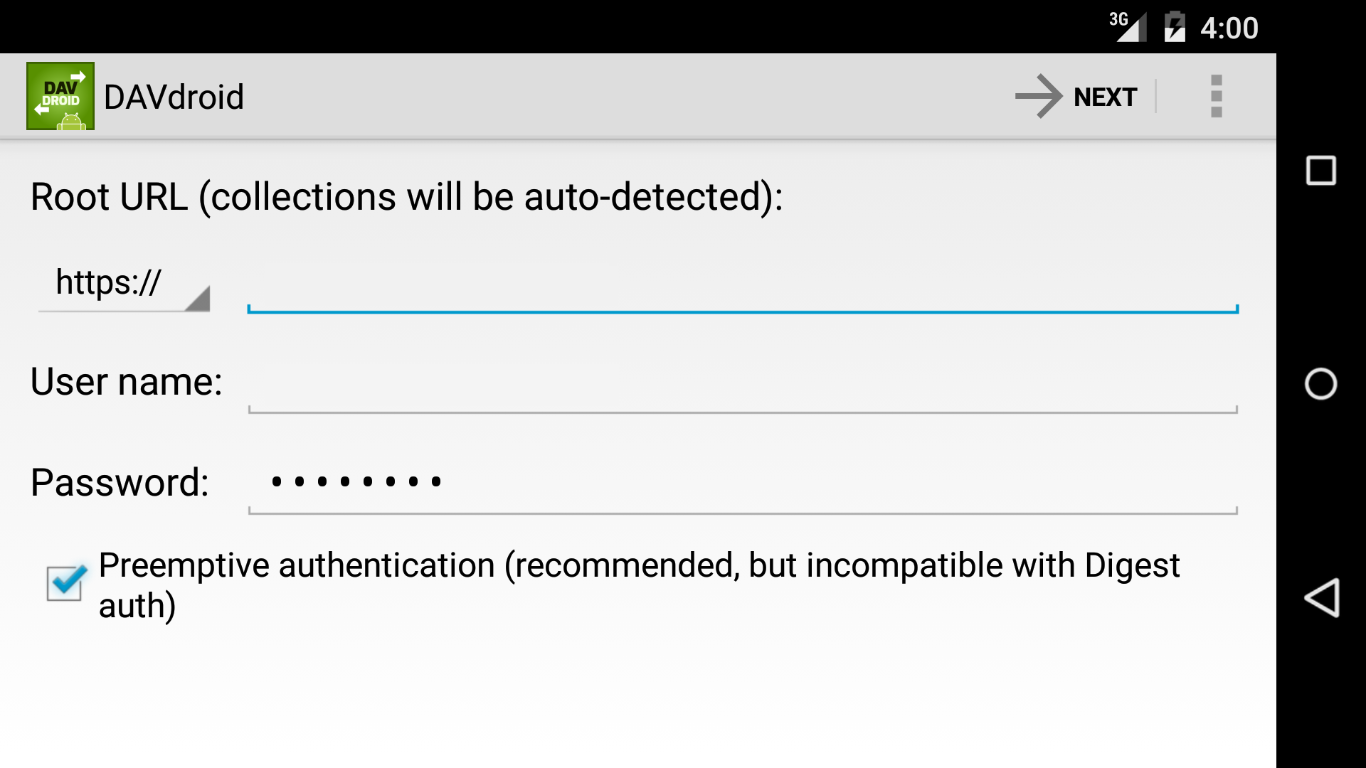
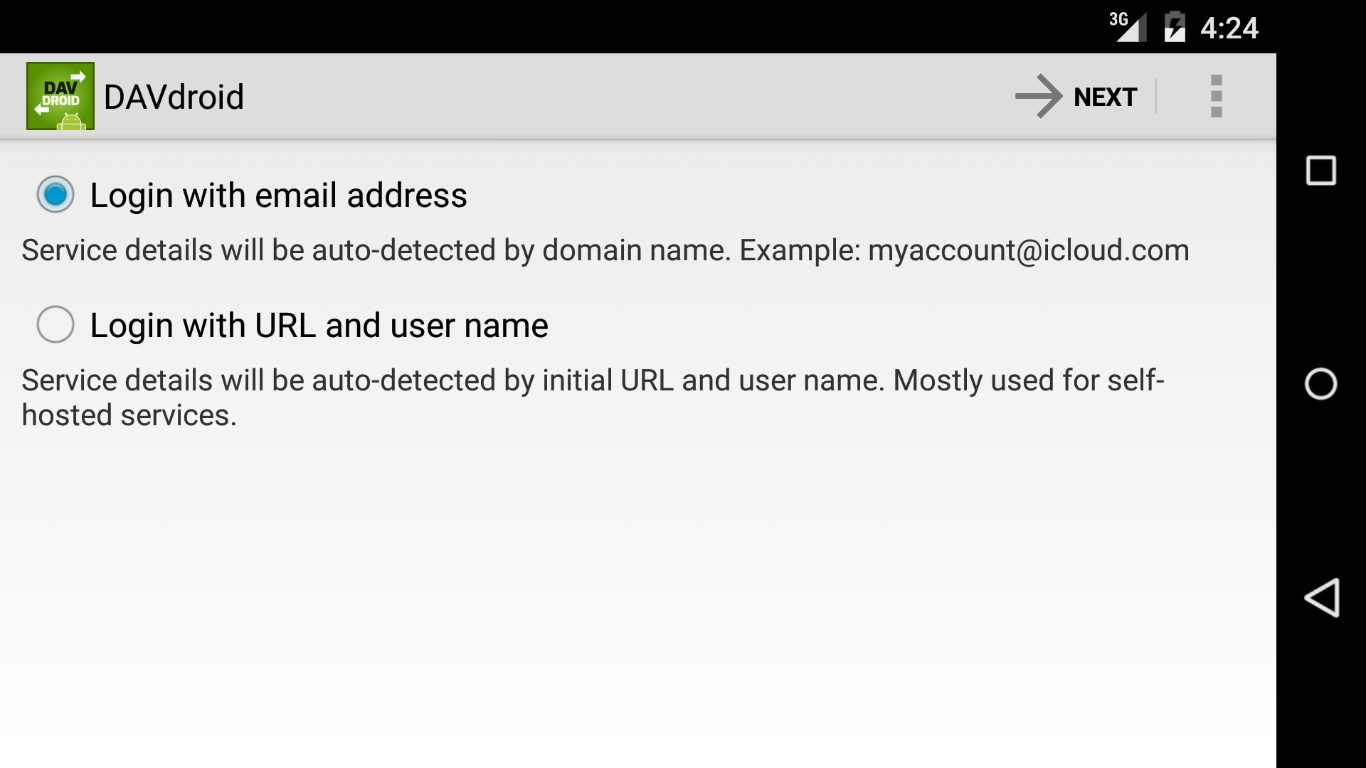
adapt Android client instructions to latest davdroid version

diff --git a/source/client-configuration/android.rst b/source/client-configuration/android.rst
@@ -142,7 +142,8 @@ Then press next and enter the following information for the outgoing server sett
     #. After installing, it will appear in your list of apps.
        Please open the app.
     #. On the welcome screen, please click the little key icon with the plus to set up your |service_name| account.
-    #. Choose DAVdroid in the next screen, then enter |**caldav_host**| in the server URL and make sure to use **https**.
+    #. Choose DAVdroid in the next screen and then click *Log in with email address*.
+    #. Provide your full and primary |service_name| address as well as your password.
     #. The next screen shows all your calendars and address books. Select those that you want
        to synchronize to your Android device.
        Please note that as of now, Android only allows one address book per account.
@@ -166,19 +167,17 @@ Then press next and enter the following information for the outgoing server sett
         .. fancyfigure:: _static/android-davdroid-3.png
             :group: davdroid
             :width: 150
-            :alt: DAVdroid - Settings
-
-            .. fancyrender::
-                :font: roboto
-                :size: 39
-
-                |caldav_host| @266,260
-                |username|    @266,360
+            :alt: Login
 
         .. fancyfigure:: _static/android-davdroid-4.png
             :group: davdroid
             :width: 150
-            :alt: DAVdroid - Settings
+            :alt: Enter email address
+
+        .. fancyfigure:: _static/android-davdroid-5.png
+            :group: davdroid
+            :width: 150
+            :alt: DAVdroid - Collections
 
             .. fancyrender::
                 :font: roboto
@@ -189,7 +188,7 @@ Then press next and enter the following information for the outgoing server sett
                 |carddav_uri_long| @95,655 #53
                 /395204a8eb31-af28467a53a-1248821a/ @95,700 #53
 
-        .. fancyfigure:: _static/android-davdroid-5.png
+        .. fancyfigure:: _static/android-davdroid-6.png
             :group: davdroid
             :width: 150
             :alt: DAVdroid - Account details
@@ -199,7 +198,32 @@ Then press next and enter the following information for the outgoing server sett
                 :size: 39
 
                 |useremail| @330,305
-                
+
+    If the auto-discovery at step 4 did not work,
+    then choose *Login with URL and user name* instead.
+    In the next screen enter |**caldav_host**| in the server URL and make sure to use **https**.
+    Afterwards, you can continue with step 6 above.
+
+    .. container:: screenshots
+
+        .. fancyfigure:: _static/android-davdroid-noauto-1.png
+            :group: davdroidnoauto
+            :width: 150
+            :alt: DAVdroid - Login
+
+        .. fancyfigure:: _static/android-davdroid-noauto-2.png
+            :group: davdroidnoauto
+            :width: 150
+            :alt: DAVdroid - Settings
+
+            .. fancyrender::
+                :font: roboto
+                :size: 39
+
+                |caldav_host| @266,260
+                |username|    @266,360
+
+
 .. only:: activesync
 
     .. _settings-clientconfig-android-activesync:
